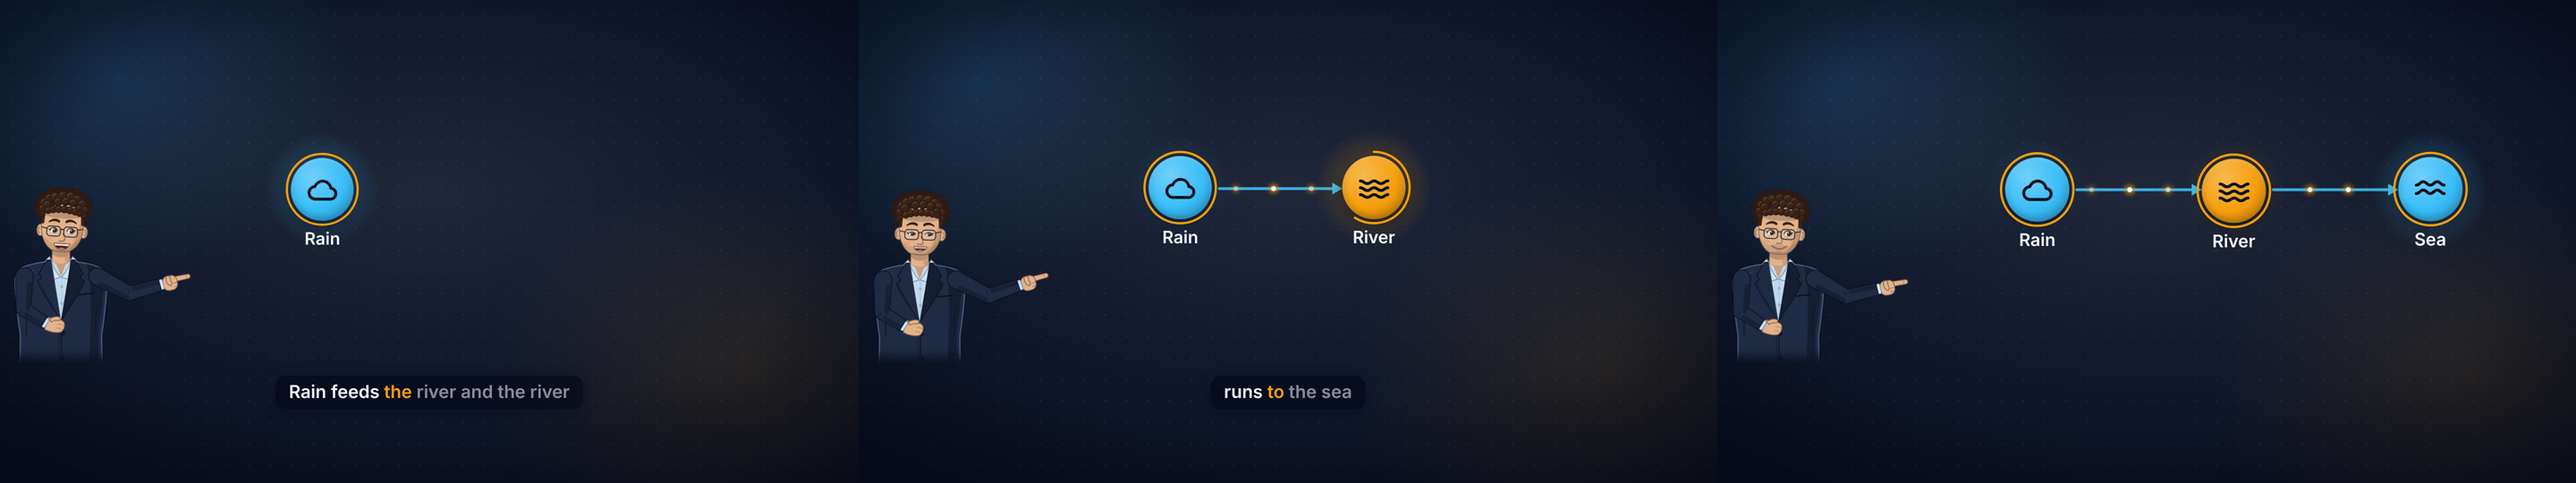
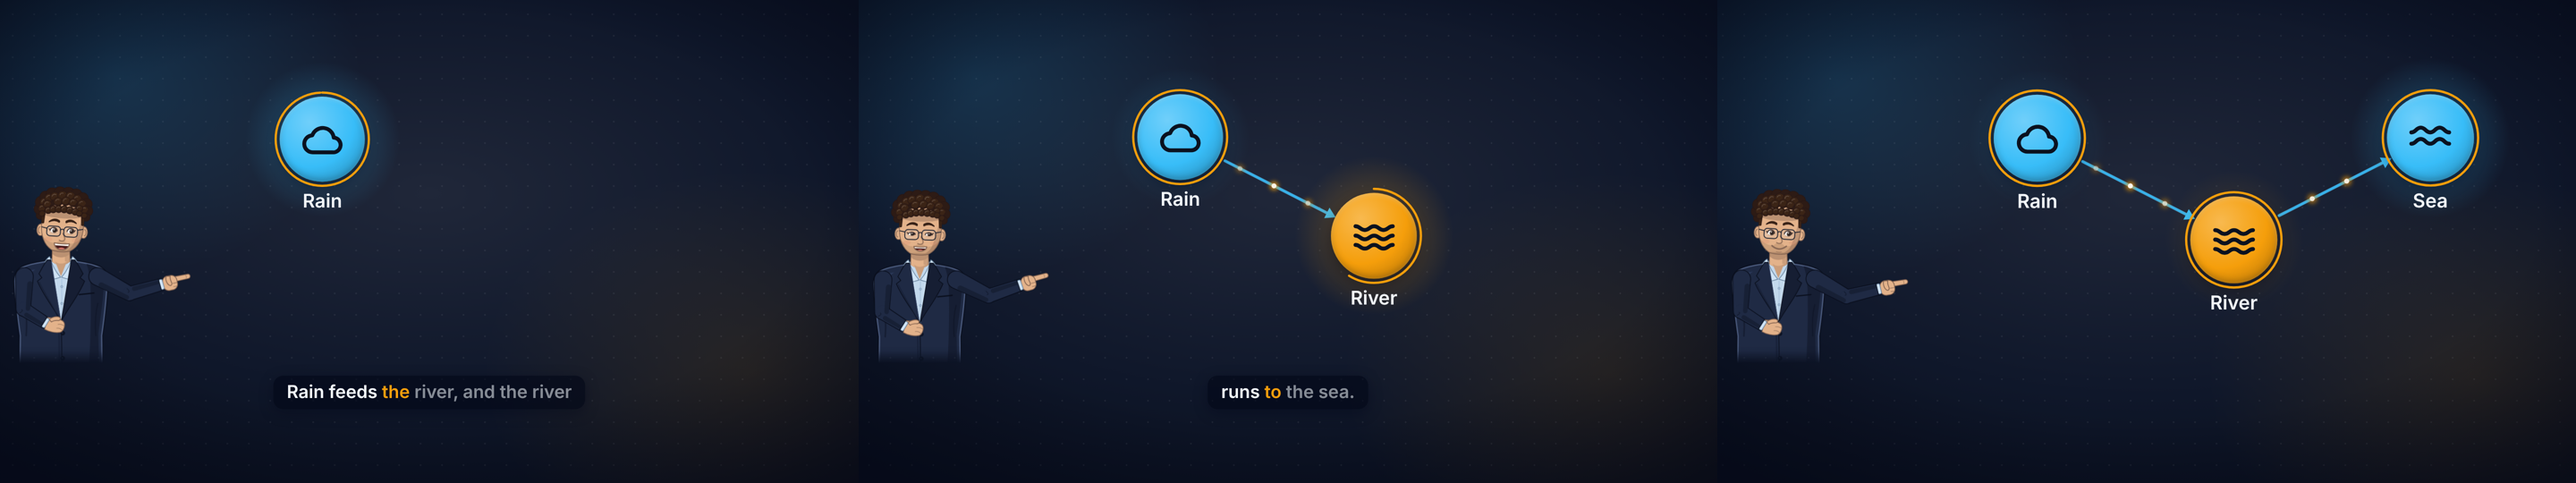
fix: centred larger kit scenes, punctuated captions, Apache notice
Claude-Session: https://claude.ai/code/session_01Tz5zWaGgMzak1Zwa8mwzTk

diff --git a/hf-kit/src/scenes/kinetic.js b/hf-kit/src/scenes/kinetic.js
@@ -10,26 +10,34 @@
   function tokens(text) { return String(text).trim().split(/\s+/); }
   function norm(w) { return String(w).toLowerCase().replace(/^[^\p{L}\p{N}]+|[^\p{L}\p{N}]+$/gu, ""); }
 
-  function splitLines(tok, size, width) {
-    var full = S.textWidth(tok.join(" "), size, "heading");
-    if (full <= width) return [tok.length];
-    var best = 1, bestW = Infinity;
-    for (var k = 1; k < tok.length; k++) {
-      var w = Math.max(S.textWidth(tok.slice(0, k).join(" "), size, "heading"), S.textWidth(tok.slice(k).join(" "), size, "heading"));
-      if (w < bestW) { bestW = w; best = k; }
+  /* Best split of the words into `n` lines: the widest line as narrow as possible. */
+  function splitInto(tok, n) {
+    var best = null, bestW = Infinity;
+    function w(a, b) { return S.textWidth(tok.slice(a, b).join(" "), 1, "heading"); }
+    if (n === 1) return [tok.length];
+    for (var i = 1; i < tok.length; i++) {
+      if (n === 2) { var m = Math.max(w(0, i), w(i, tok.length)); if (m < bestW) { bestW = m; best = [i, tok.length - i]; } continue; }
+      for (var j = i + 1; j < tok.length; j++) {
+        var m3 = Math.max(w(0, i), w(i, j), w(j, tok.length));
+        if (m3 < bestW) { bestW = m3; best = [i, j - i, tok.length - j]; }
+      }
     }
-    return [best, tok.length - best];
+    return best;
   }
 
+  /* 1-3 lines: the layout with the tallest block (big type) that fits the box. */
   function geometry(p, box, style) {
     var tok = tokens(p.text), width = box.width * 0.92;
-    var size = 104, lines;
-    for (; size >= 44; size -= 4) {
-      lines = splitLines(tok, size, width);
-      var from = 0, ok = true;
-      for (var l = 0; l < lines.length; l++) { if (S.textWidth(tok.slice(from, from + lines[l]).join(" "), size, "heading") > width) ok = false; from += lines[l]; }
-      if (ok && lines.length <= 2) break;
+    var choice = null;
+    for (var n = 1; n <= Math.min(3, tok.length); n++) {
+      var lines = splitInto(tok, n), from = 0, widest = 0;
+      lines.forEach(function (c) { widest = Math.max(widest, S.textWidth(tok.slice(from, from + c).join(" "), 1, "heading")); from += c; });
+      var size = Math.floor(Math.min(150, width / widest, box.height * 0.9 / (1.3 * n)) / 2) * 2;
+      if (size < 44) continue;
+      if (!choice || n * size > choice.n * choice.size * 1.05) choice = { n: n, size: size, lines: lines };
     }
+    if (!choice) choice = { n: 1, size: 44, lines: [tok.length] };
+    var size = choice.size, lines = choice.lines;
     var lh = Math.round(size * 1.3);
     var total = lh * lines.length;
     var y0 = box.y + (box.height - total) / 2;
@@ -44,13 +52,11 @@
       at += n;
     });
     anchors.text = { x: box.x + box.width / 2, y: y0 + total / 2 };
-    var cursor = 0;
     tok.forEach(function (w, i) {
       var row = rows.filter(function (r) { return i >= r.from && i < r.from + r.count; })[0];
       anchors["word-" + i] = { x: box.x + box.width / 2, y: row.y + lh / 2 };
-      cursor++;
     });
-    return { geom: { tokens: tok, rows: rows, size: size, lh: lh }, boxes: boxes, fonts: fonts, anchors: anchors };
+    return { geom: { tokens: tok, rows: rows, size: size, lh: lh, center: { x: anchors.text.x, y: anchors.text.y } }, boxes: boxes, fonts: fonts, anchors: anchors };
   }
 
   /* Word i lands on its "word" cue, else on the next spoken word with the same text, else
@@ -80,7 +86,7 @@
     var emph = (p.emphasis || []).map(norm);
     var ups = [];
     if (p.icon) {
-      var bg = S.div(stage, "hf-kinetic-icon", { x: ctx.plan.anchors.text.x - 260, y: ctx.plan.anchors.text.y - 260, width: 520, height: 520 }, { opacity: "0.07" });
+      var bg = S.div(stage, "hf-kinetic-icon", { x: g.center.x - 260, y: g.center.y - 260, width: 520, height: 520 }, { opacity: "0.07" });
       bg.innerHTML = K.icons.svg(p.icon, 520, st.colors.primary, 1.2);
       ups.push(function (t) { bg.style.transform = "rotate(" + D.r2(4 * D.wobble(t * 0.3, 4)) + "deg) scale(" + D.r2(1 + 0.04 * D.prog(t, 0, ctx.duration)) + ")"; });
     }

diff --git a/hf-kit/src/scenes/common.js b/hf-kit/src/scenes/common.js
@@ -133,7 +133,7 @@
   /* Title block at the top of the box: {box, size, lines}. Optional; height 0 when absent. */
   function titleGeom(title, box, maxSize) {
     if (!title) return null;
-    var f = fitText(title, box.width, range(maxSize || 64, 44, 4), 2, "heading");
+    var f = fitText(title, box.width, range(maxSize || 72, 44, 4), 2, "heading");
     var h = Math.ceil(f.size * 1.16 * f.lines);
     return { text: title, x: box.x, y: box.y, width: box.width, height: h, size: f.size, lines: f.lines, bar: { x: box.x, y: box.y + h + 14, width: 120, height: 8 } };
   }
@@ -241,7 +241,8 @@
     var keys = K.resolveCamera(opts.camera || [], opts.words || [], opts.sceneId, norm);
     var still = { x: 0.5, y: 0.5, zoom: 1 };
     var useDrift = opts.drift !== false;
-    var draw = def.render({ stage: sh.layers.stage, overlay: sh.layers.overlay, plan: plan, props: opts.props, style: sh.style, duration: duration, shell: sh });
+    var body = div(sh.layers.stage, "hf-body", { x: 0, y: plan.dy, width: K.CANVAS.width, height: K.CANVAS.height });
+    var draw = def.render({ stage: body, overlay: sh.layers.overlay, plan: plan, props: opts.props, style: sh.style, duration: duration, shell: sh });
     var fits = Array.prototype.slice.call(rootEl.querySelectorAll(".hf-fit"));
     function update(t) {
       sh.update(t);
@@ -278,8 +279,17 @@
         var g = def.geometry(opts.props, K.driftSafe(L.content), style, L);
         var reveal = def.reveal ? def.reveal(opts, duration) : planReveals(def.counts(opts.props), opts.cues, opts.words, duration, opts.sceneId);
         g.anchors = g.anchors || {};
+        // centre the whole block (title + body) vertically in the drift-safe box: the scene draws
+        // in its own coordinates inside a layer moved by dy; boxes and anchors are reported moved
+        var safe = K.driftSafe(L.content);
+        var top = Math.min.apply(null, g.boxes.map(function (b) { return b.y; }));
+        var bottom = Math.max.apply(null, g.boxes.map(function (b) { return b.y + b.height; }));
+        var dy = Math.round(safe.y + safe.height / 2 - (top + bottom) / 2);
+        dy = Math.max(safe.y - top, Math.min(safe.y + safe.height - bottom, dy));
+        g.boxes = g.boxes.map(function (b) { return Object.assign({}, b, { y: b.y + dy }); });
+        Object.keys(g.anchors).forEach(function (k) { g.anchors[k] = { x: g.anchors[k].x, y: g.anchors[k].y + dy }; });
         g.anchors.center = { x: L.content.x + L.content.width / 2, y: L.content.y + L.content.height / 2 };
-        return Object.assign(g, { reveal: reveal, box: L.content, layout: L, style: style });
+        return Object.assign(g, { reveal: reveal, box: L.content, layout: L, style: style, dy: dy });
       },
     };
     scene.mount = function (rootEl, opts) { return mountScene({ validate: scene.validate, validateCues: scene.validateCues, plan: scene.plan, render: def.render }, rootEl, opts); };

diff --git a/hf-kit/test/scenes.test.js b/hf-kit/test/scenes.test.js
@@ -195,9 +195,13 @@ test("transitions: fade, blur, slide and zoom go from hidden to shown", () => {
 
 test("blocks keep their licence notes", () => {
   const lic = readFileSync(new URL("src/blocks/LICENSES.md", KIT), "utf8");
-  for (const needle of ["kinetic-center-build", "MIT", "Remocn", "transitions-dissolve", "Apache-2.0", "0.9.72"]) {
+  for (const needle of ["kinetic-center-build", "MIT", "Remocn", "transitions-dissolve", "Apache-2.0", "0.9.72",
+    "LICENSE-Apache-2.0.txt", "github.com/heygen-com/hyperframes", "Modified: ported to a cue-driven classic script, GSAP removed"]) {
     assert.ok(lic.includes(needle), needle);
   }
+  const apache = readFileSync(new URL("src/blocks/LICENSE-Apache-2.0.txt", KIT), "utf8");
+  assert.match(apache, /Apache License\s+Version 2\.0, January 2004/);
+  assert.match(apache, /END OF TERMS AND CONDITIONS/);
   for (const f of readdirSync(new URL("src/blocks/", KIT))) {
     if (f.endsWith(".js")) assert.doesNotMatch(readFileSync(new URL("src/blocks/" + f, KIT), "utf8").replace(/\/\*[\s\S]*?\*\//g, ""), /https?:\/\//, f);
   }
@@ -331,6 +335,23 @@ test("scene plans stay inside the content box for every presenter layout", () =>
       assert.ok(!intersects(a, b), `${n} ${position}/${size}: ${a.name} overlaps ${b.name}`);
     }
   }
+});
+
+test("the content block is vertically centred (+-12 %) and fills >= 45 % of the content box", () => {
+  for (const n of SCENES) for (const position of POSITIONS) for (const size of SIZES) {
+    const presenter = { position, size };
+    const box = K.layout(undefined, presenter).content;
+    const plan = K.scenes[n].plan({ props: GOOD[n], words: WORDS, duration: 8, cues: [], presenter });
+    const top = Math.min(...plan.boxes.map((b) => b.y)), bottom = Math.max(...plan.boxes.map((b) => b.y + b.height));
+    const where = `${n} ${position}/${size}: block ${Math.round(top)}..${Math.round(bottom)} in ${box.y}..${box.y + box.height}`;
+    assert.ok(Math.abs((top + bottom) / 2 - (box.y + box.height / 2)) <= 0.12 * box.height, where);
+    assert.ok(bottom - top >= 0.45 * box.height, where);
+  }
+});
+
+test("captions show the word as written (display) when words.json has it", () => {
+  assert.equal(K.captionWord({ text: "chamber", display: "chamber," }), "chamber,");
+  assert.equal(K.captionWord({ text: "rock" }), "rock");
 });
 
 test("on-screen text is at least 32 px", () => {

diff --git a/hf-kit/src/scenes/diagram.js b/hf-kit/src/scenes/diagram.js
@@ -22,16 +22,18 @@
     var top = tg ? tg.bar.y + 36 : box.y, bottom = box.y + box.height, n = p.nodes.length;
     var areaW = box.width, areaH = bottom - top;
     var flow = p.layout === "flow";
-    var labelW = flow ? Math.min(320, areaW / n - 24) : Math.min(320, areaW / 3.2);
-    var size = 38;
-    p.nodes.forEach(function (nd) { size = Math.min(size, S.fitText(nd.label, labelW, S.range(38, 32, 2), 2, "body").size); });
+    var labelW = flow ? Math.min(340, areaW / n - 24) : Math.min(320, areaW / 3.2);
+    var size = 42;
+    p.nodes.forEach(function (nd) { size = Math.min(size, S.fitText(nd.label, labelW, S.range(42, 32, 2), 2, "body").size); });
     var lines = Math.max.apply(null, p.nodes.map(function (nd) { return S.lineCount(nd.label, size, labelW, "body"); }));
     var labelH = Math.ceil(size * 1.2 * lines);
-    var disc = Math.round(Math.min(flow ? 140 : 120, (areaW / n) * 0.5, areaH * 0.3));
+    var disc = Math.round(Math.min(flow ? 190 : 130, (areaW / n) * 0.55, areaH * 0.3));
     var pts = [];
     if (flow) {
+      // a gentle zig-zag, so the flow reads as a journey and fills the frame
+      var zig = Math.min(110, areaH * 0.16);
       var cw = areaW / n, gy = top + (areaH - (disc + 18 + labelH)) / 2 + disc / 2;
-      for (var i = 0; i < n; i++) pts.push({ x: box.x + cw * (i + 0.5), y: gy });
+      for (var i = 0; i < n; i++) pts.push({ x: box.x + cw * (i + 0.5), y: gy + (i % 2 ? zig : -zig) });
     } else {
       var hub = p.layout === "hub";
       var cx = box.x + areaW / 2, cy, a, k;

diff --git a/hf-kit/sample/kit-sheet/index.html b/hf-kit/sample/kit-sheet/index.html
@@ -70,11 +70,11 @@
       var K = window.HFKit;
       var plan = JSON.parse(document.getElementById("sheet-plan").textContent).scenes;
 
-      /* Narration words at an even pace (a stand-in for words.json). */
+      /* Narration words at an even pace (a stand-in for words.json, `display` keeps punctuation). */
       function say(text, t0, pace) {
         return text.split(/\s+/).map(function (w, i) {
           var s = Math.round((t0 + i * pace) * 1000) / 1000;
-          return { i: i, text: w.replace(/^[^\w]+|[^\w]+$/g, ""), start: s, end: Math.round((s + pace * 0.8) * 1000) / 1000 };
+          return { i: i, text: w.replace(/^[^\w]+|[^\w]+$/g, ""), display: w, start: s, end: Math.round((s + pace * 0.8) * 1000) / 1000 };
         });
       }
       /* Spike narration with its Kokoro key times (chamber 2.08, pressure 5.23, pushes 6.75,
@@ -88,7 +88,7 @@
           var a = keys[k], b = keys[Math.min(k + 1, keys.length - 1)];
           var s = b[0] === a[0] ? a[1] + (i - a[0]) * 0.3 : a[1] + (b[1] - a[1]) * (i - a[0]) / (b[0] - a[0]);
           s = Math.round(s * 1000) / 1000;
-          return { i: i, text: w.replace(/^[^\w]+|[^\w]+$/g, ""), start: s, end: Math.round((s + 0.26) * 1000) / 1000 };
+          return { i: i, text: w.replace(/^[^\w]+|[^\w]+$/g, ""), display: w, start: s, end: Math.round((s + 0.26) * 1000) / 1000 };
         });
       }
       /* Mouth loudness per frame from the words (talk shapes while a word is spoken). */

diff --git a/hf-kit/src/shell.js b/hf-kit/src/shell.js
@@ -151,6 +151,10 @@
   }
 
   // ---- captions -------------------------------------------------------------------------
+  /* The word as the caption shows it: words.json `display` (script token with punctuation) if
+   * present, else `text`. */
+  function captionWord(w) { return w.display || w.text; }
+
   /* Word-highlighted captions in the caption slot (from shell().layers.captions). Fixed pages of
    * `maxWords` words (HFKit.captionPage); the spoken word is in the accent colour, words not yet
    * spoken are dimmed. Returns {update(t)}. */
@@ -177,7 +181,7 @@
         spans = pg.words.map(function (w, j) {
           var s = doc.createElement("span");
           s.className = "hf-caption-word";
-          s.textContent = w.text + (j < pg.words.length - 1 ? " " : "");
+          s.textContent = captionWord(w) + (j < pg.words.length - 1 ? " " : "");
           bar.appendChild(s);
           return s;
         });
@@ -196,6 +200,6 @@
   Object.assign(K, {
     PRESENTER_WIDTH: PRESENTER_WIDTH, resolveStyle: resolveStyle, layout: layout,
     kitFrame: kitFrame, heroFrame: heroFrame, driftSafe: driftSafe, DRIFT_INSET: DRIFT_INSET, view: view, normaliseAnchors: normaliseAnchors, drift: drift,
-    shell: shell, mountCaptions: mountCaptions,
+    shell: shell, mountCaptions: mountCaptions, captionWord: captionWord,
   });
 })(typeof globalThis !== "undefined" ? globalThis : window);

diff --git a/hf-kit/src/scenes/steps.js b/hf-kit/src/scenes/steps.js
@@ -13,10 +13,10 @@
     if (tg) { boxes.push(Object.assign({ name: "title" }, tg)); fonts.push({ name: "title", size: tg.size }); anchors.title = { x: tg.x + tg.width / 2, y: tg.y + tg.height / 2 }; }
     var top = tg ? tg.bar.y + 40 : box.y;
     var n = p.steps.length, cw = box.width / n;
-    var disc = Math.round(Math.min(150, cw * 0.56, (box.y + box.height - top) * 0.38));
+    var disc = Math.round(Math.min(190, cw * 0.6, (box.y + box.height - top) * 0.42));
     var lw = cw - 24;
-    var size = 40;
-    p.steps.forEach(function (it) { size = Math.min(size, S.fitText(S.itemText(it), lw, S.range(40, 32, 2), 2, "body").size); });
+    var size = 46;
+    p.steps.forEach(function (it) { size = Math.min(size, S.fitText(S.itemText(it), lw, S.range(46, 32, 2), 2, "body").size); });
     var lines = Math.max.apply(null, p.steps.map(function (it) { return S.lineCount(S.itemText(it), size, lw, "body"); }));
     var lh = Math.ceil(size * 1.2 * lines);
     var group = disc + 34 + lh;

diff --git a/tools/voice/words.py b/tools/voice/words.py
@@ -9,6 +9,8 @@ Algorithm (align_to_script):
   3. The two word sequences are aligned monotonically (difflib.SequenceMatcher).
   4. A script token takes start = first start, end = last end of the engine tokens its words
      matched (so "1,000" spoken as several tokens spans all of them).
+  4b. Each word also keeps `display`: the token exactly as written, punctuation included
+     ("chamber,", "rock."), for captions; `text` (used for cue matching) is unchanged.
   5. Script tokens with no match are interpolated evenly in the gap between the nearest timed
      neighbours. Finally times are forced monotonic with start < end.
 Times are seconds from the start of the scene wav.
@@ -34,8 +36,25 @@ def script_tokens(text: str) -> list[str]:
     return [t for t in toks if t]
 
 
+def display_tokens(text: str) -> list[str]:
+    """The script tokens exactly as written (punctuation kept), one per script_tokens() entry.
+    A token that is only punctuation (e.g. a dash) joins the previous token with a space."""
+    out: list[str] = []
+    pending = ""
+    for raw in text.split():
+        if raw.strip(_STRIP):
+            out.append(pending + raw)
+            pending = ""
+        elif out:
+            out[-1] += " " + raw
+        else:
+            pending += raw + " "
+    return out
+
+
 def align_to_script(script_text: str, timed: list[dict]) -> list[dict]:
     toks = script_tokens(script_text)
+    shown = display_tokens(script_text)
     if not toks:
         return []
     if not timed:
@@ -86,7 +105,7 @@ def align_to_script(script_text: str, timed: list[dict]) -> list[dict]:
     for i, tok in enumerate(toks):
         s = max(float(start[i]), prev_end)
         e = max(float(end[i]), s + _MIN_DUR)
-        out.append({"i": i, "text": tok, "start": round(s, 3), "end": round(e, 3)})
+        out.append({"i": i, "text": tok, "display": shown[i], "start": round(s, 3), "end": round(e, 3)})
         prev_end = e
     return out
 

diff --git a/tests/voice/test_words.py b/tests/voice/test_words.py
@@ -52,6 +52,20 @@ def test_numbers_keep_script_text():
     assert w[3]["end"] == pytest.approx(1.75)
 
 
+def test_display_keeps_script_punctuation():
+    timed = [{"text": t, "start": i * .3, "end": i * .3 + .25}
+             for i, t in enumerate(["Deep", "down", "sits", "a", "magma", "chamber", ",", "a", "pool", "of", "rock", "."])]
+    w = align_to_script("Deep down sits a magma chamber, a pool of rock. \u2014 \"Hot!\"", timed)
+    assert [x["text"] for x in w] == ["Deep", "down", "sits", "a", "magma", "chamber", "a", "pool", "of", "rock", "Hot"]
+    assert [x["display"] for x in w] == ["Deep", "down", "sits", "a", "magma", "chamber,", "a", "pool", "of", "rock. \u2014",
+                                         "\"Hot!\""]
+
+
+def test_display_matches_text_without_punctuation():
+    w = align_to_script("Lava is 1,000 °C", [{"text": "lava", "start": 0, "end": .2}])
+    assert [x["display"] for x in w] == ["Lava", "is", "1,000", "°C"]
+
+
 def test_unmatched_tokens_interpolated():
     timed = [{"text": "alpha", "start": 0.0, "end": 0.5},
              {"text": "gamma", "start": 1.5, "end": 2.0}]
@@ -82,6 +96,7 @@ def test_kokoro_word_times_real(tmp_path):
     w = data["scenes"][0]["words"]
     info = sf.info(str(out / "scene-01.wav"))
     assert "1,000" in [x["text"] for x in w]
+    assert [x["display"] for x in w][3] == "ground," and w[-1]["display"] == "crater."
     assert all(x["start"] < x["end"] for x in w)
     assert all(a["start"] <= b["start"] for a, b in zip(w, w[1:]))
     assert w[-1]["end"] <= info.frames / info.samplerate + 0.05

diff --git a/hf-kit/src/blocks/LICENSES.md b/hf-kit/src/blocks/LICENSES.md
@@ -8,14 +8,33 @@ GSAP and fonts from CDNs, which the ports do not).
 | Port | Upstream item | Upstream sha256 (hyperframes.lock.json) | Licence |
 |---|---|---|---|
[3 lines of base64/hex data omitted]
 
 Looked at and **not adopted**: `chart-story` (fixed 3.3 s build envelope and variables, not
 cue-driven; our chart scene builds each bar on its word), `animated-bar-chart` (UI card),
 `text-stagger` (kinetic-center-build fits narration better), `transitions-*` showcases other than
 dissolve (flashy distortion/3D moves break the calm-motion rule).
 
+## Apache-2.0 notice (transitions-dissolve)
+
+`transitions.js` is a derivative of the HyperFrames registry block `transitions-dissolve`,
+from HyperFrames by HeyGen (https://github.com/heygen-com/hyperframes, registry of CLI 0.9.72),
+licensed under the Apache License, Version 2.0. The item file carries no notice of its own; the
+`hyperframes` package declares `"license": "Apache-2.0"`. Full licence text:
+`LICENSE-Apache-2.0.txt` (this folder); also at https://www.apache.org/licenses/LICENSE-2.0.
+
+Modified: ported to a cue-driven classic script, GSAP removed. Only the crossfade and blur
+crossfade values (blur 10 px, scale 0.97 in / 1.03 out, 0.5 s power2.inOut) were kept; slide,
+zoom and cut were added in the same shape; the showcase page, its info bars and CDN script are not
+included. The unmodified original is `upstream/transitions-dissolve.html.txt`.
+
+Distributed under the License on an "AS IS" BASIS, WITHOUT WARRANTIES OR CONDITIONS OF ANY KIND.
+
 ## MIT licence (kinetic-center-build)
+
+Modified: ported to a cue-driven classic script, GSAP removed (word start times come from the
+narration; layout maths kept).
+
 
 MIT License
 
